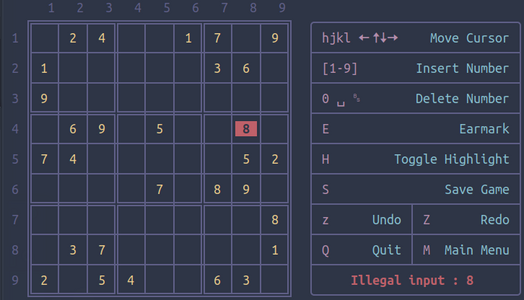
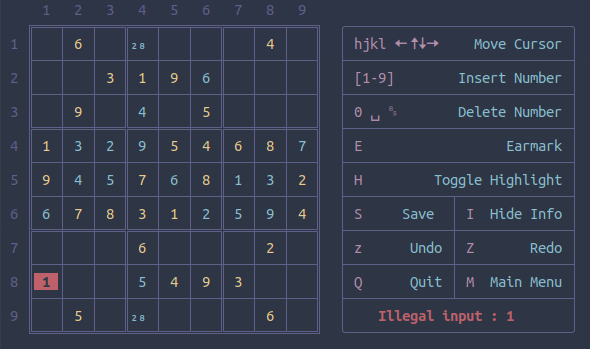
add 'toggle info(key cheatsheet)' feature. Update md png

Changed region(s): [[0.0, 0.0, 1.0, 0.99]]

diff --git a/README.md b/README.md
@@ -1,23 +1,29 @@
-## tui-sudoku
+# tui-sudoku
 
 tui-sudoku is a **configurable terminal interface sudoku game**, with quite a few features.
 
- ![3.png](screenshots/3.png)
+ ![0.png](screenshots/0.png)
 
 
 
 Starting the game, and through the **main menu**,
 the player can :
-- Start a new game
+
+- Start a new game 
+
 - Load previously saved game
+
 - Configure some parameters (colors, preferred editor, puzzle symmetry,preffered png)
+
 - exit the program
 
- ![1.png](screenshots/1.png)
+     ![1.png](screenshots/1.png)
 
-#### PLAYING THE GAME
+---
 
-After choosing the `n New Game` option, the player can select the level of difficulty:
+## PLAYING THE GAME
+
+After choosing the `n New Game` option, the player can select the **level of difficulty**:
 
 ![2.png](screenshots/2.png)
 
@@ -35,50 +41,69 @@ Using the shortcuts in the shown cheatsheet table, the player can
 |0,␣<space\>,␈<backspace\>       |Clear Cell     |
 |  E   | Earmark cells|
 |H|Toggle Highlight Numbers|
+|I|Toggle show Info (key cheatsheet)|
 |S|Save Game|
 |z,Z| Undo / Redo |
 |M|Return to Main Menu|
 |Q|Show Solution & Quit|
 
+
+
+---
+
 - Typing `H` while the cursor is on a number, e.g. 2, will **highlight** all the 2s in the matrix.
 
-    Typing `H` again will **undo the highlighting**:
+    Typing `H` again will **undo the highlighting**.
 
-![4.png](screenshots/4.png)
+    ![4.png](screenshots/4.png)
 
 - Typing `E` and entering up to 3 digits, will **earmark the cell**:
 
-![5.png](screenshots/5.png)
+     ![5.png](screenshots/5.png)
 
 - Earmarking a cell with an **illegal number** (a number that *already exists in the row, the line or the 3x3 block*) will give an earmark with a different color, and a warning message:
 
-![5a.png](screenshots/5a.png)
+    ![5a.png](screenshots/5a.png)
 
 - Entering an **illegal number** (a number that *already exists in the row, the line or the 3x3 block*) will mark the number with a different color, and give a warning message:
 
-![6.png](screenshots/6.png)
+    ![6.png](screenshots/6.png)
 
-While the `M` option **returns to the `Main Menu`**, and the `S` option **saves the game**, the `Q` option **prints the solution and exits**:
 
-![9.png](screenshots/9.png)
+- Typing `I`, the user can **hide the key cheatsheet**.
+
+    Typing `I` again will **show the key cheatsheet again**.
+
+    ![6a.png](screenshots/6a.png)
+
 
 - The user can also **Undo** or **Redo** their entries with the `z` or `Z` option respectively.
 
-    Back in the `Main Menu`, the player can also
+- While the `M` option **returns to the `Main Menu`**, and the `S` option **saves the game**, the `Q` option **prints the solution and exits**:
+
+    ![9.png](screenshots/9.png)
+
+
+---
+
+
+Back in the `Main Menu`, the player can also
 
 - **Load a previously saved game** with the `l` option
 
-![8.png](screenshots/8.png)
+    ![8.png](screenshots/8.png)
 
 - **Configure** preferred _colors_, preferred _text editor_ and _puzzle symmetry_ with the `c` option
 
-![10.png](screenshots/10.png)
+    ![10.png](screenshots/10.png)
 
 - or Browse the **Top Ten Scores** (`s` option)
 
-![7.png](screenshots/7.png)
+    ![7.png](screenshots/7.png)
 
-### Configure
+---
+
+## Configure
 
 The configuration is kept in the `$HOME/.config/tui-sudoku/tui-sudoku.config` file.
 
@@ -110,8 +135,9 @@ _none, rotate90, rotate180, mirror, flip, or random_
 
 - `PREFERRED_EDITOR` variable configures the editor you wish to use with the `c` (configure) option.
 
+---
 
-### Dependencies
+## Dependencies
 
 - [qqwing](https://qqwing.com/download.html) is the main dependency of this program, as it is the command line sudoku generator.
 
@@ -125,9 +151,9 @@ In Debian based OSs, in order to install these dependencies:
 sudo apt install qqwing fzf lolcat
 ```
 
+---
 
-
-### INSTALL
+## INSTALL
 
 Clone the repo, and change directory into the program's directory:
 ```
@@ -149,9 +175,9 @@ touch ~/.cache/tui-sudoku/history.txt ~/.cache/tui-sudoku/hiscores.txt
 cp -r png/ ~/.cache/tui-sudoku/
 ```
 
+---
 
-
-### RUN
+## RUN
 
 Since `tui-sudoku.sh` is copied in the `$PATH`:
 
